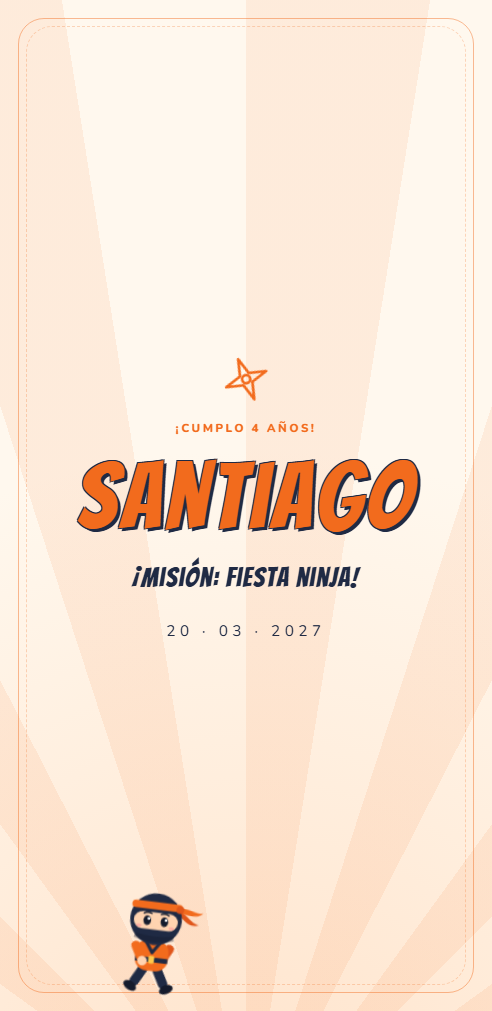
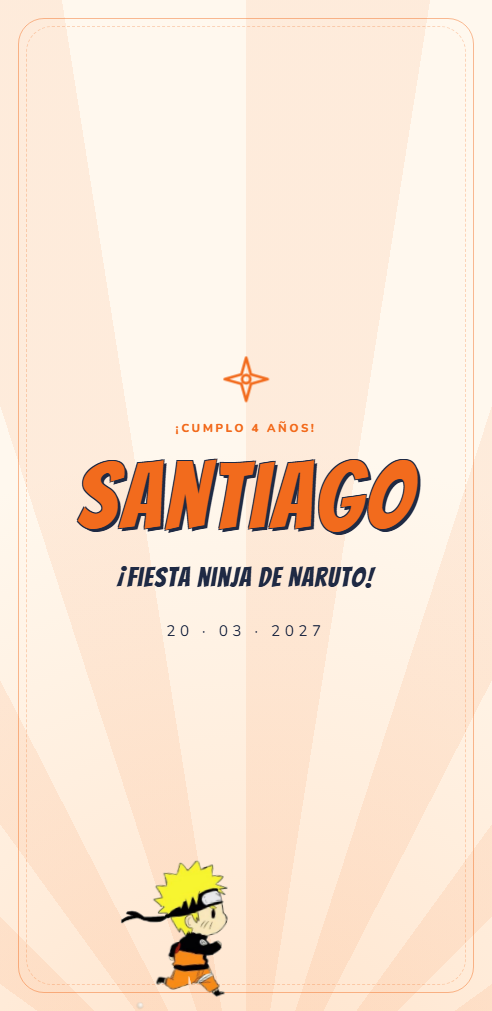
Catálogo: la tarjeta de fiestas infantiles ahora es "Fiesta Naruto"

Changed region(s): [[0.2439, 0.8279, 0.4573, 1.0], [0.2439, 0.5519, 0.7622, 0.5826], [0.4573, 0.3373, 0.5488, 0.3986]]

diff --git a/sitio/disenos/ninja/datos.js b/sitio/disenos/ninja/datos.js
@@ -3,15 +3,15 @@
    Fiesta infantil temática con personajes animados.
    ===================================================================== */
 window.EVENTO = {
-  catalogo: { nombre: "Pequeño Ninja", detalle: "Infantil · Personajes animados" },
+  catalogo: { nombre: "Fiesta Naruto", detalle: "Infantil · Personajes animados" },
 
   tipo: "ninja",
   emblema: "shuriken",
 
   pretitulo: "¡Cumplo 4 años!",
   nombres: { principal: "Santiago" },
-  frase: "¡Misión: fiesta ninja!",
-  tituloCorto: "la fiesta ninja de Santiago",
+  frase: "¡Fiesta ninja de Naruto!",
+  tituloCorto: "la fiesta de Naruto de Santiago",
 
   fecha: "2027-03-20T14:00:00-06:00",
   duracionHoras: 5,
@@ -56,13 +56,13 @@ window.EVENTO = {
   // (PNG con fondo transparente, GIF, SVG o animación Lottie .json).
   // animacion: cruzar | asomarse | saltar | flotar | ninja | lanzar
   personajes: [
-    { imagen: "personajes/ninja.svg", animacion: "cruzar", seccion: "portada", tamano: "96px" },
-    { imagen: "personajes/ninja.svg", animacion: "asomarse", seccion: "mensaje", lado: "derecha", posicion: "centro", tamano: "100px" },
+    { imagen: "personajes/naruto-corriendo.png", mira: "izquierda", piernas: 0.77, separa: 0.45, cinta: { desde: 0.56, arriba: 0.3, abajo: 0.46 }, animacion: "cruzar", seccion: "portada", tamano: "110px" },
+    { imagen: "personajes/kakashi.png", mira: "izquierda", animacion: "asomarse", asomo: 0.04, giro: 0, seccion: "mensaje", lado: "derecha", posicion: "abajo", tamano: "130px" },
     { imagen: "personajes/shuriken.svg", animacion: "lanzar", seccion: "cuenta", posicion: "arriba" },
-    { imagen: "personajes/ninja.svg", animacion: "ninja", seccion: "lugares", tamano: "100px" },
-    { imagen: "personajes/ninja.svg", animacion: "asomarse", seccion: "vestimenta", lado: "izquierda", posicion: "centro", tamano: "100px" },
-    { imagen: "personajes/ninja.svg", animacion: "saltar", seccion: "confirmar", lado: "derecha", tamano: "90px" },
-    { imagen: "personajes/ninja.svg", animacion: "cruzar", seccion: "despedida", lado: "derecha", tamano: "90px" },
+    { imagen: "personajes/naruto.png", animacion: "ninja", seccion: "lugares", tamano: "88px" },
+    { imagen: "personajes/kakashi.png", mira: "izquierda", animacion: "asomarse", asomo: 0.04, giro: 0, seccion: "vestimenta", lado: "izquierda", posicion: "abajo", tamano: "130px" },
+    { imagen: "personajes/naruto.png", animacion: "saltar", seccion: "confirmar", lado: "derecha", tamano: "80px" },
+    { imagen: "personajes/naruto-corriendo.png", mira: "izquierda", piernas: 0.77, separa: 0.45, cinta: { desde: 0.56, arriba: 0.3, abajo: 0.46 }, animacion: "cruzar", seccion: "despedida", lado: "derecha", tamano: "100px" },
   ],
 
   // evento: id del evento en el panel de invitados (localconnect.studio/panel). null = sin panel.

diff --git a/sitio/disenos/ninja/index.html b/sitio/disenos/ninja/index.html
@@ -10,10 +10,10 @@
 
   <!-- Lo que se ve al compartir el enlace por WhatsApp / Facebook.
        WhatsApp NO lee datos.js, por eso estos textos se escriben aquí. -->
-  <title>¡Santiago cumple 4! · Fiesta Ninja</title>
-  <meta name="description" content="¡Misión ninja! Santiago cumple 4 años el 20 de marzo. Toca para ver los detalles y confirmar.">
-  <meta property="og:title" content="¡Santiago cumple 4! · Fiesta Ninja">
-  <meta property="og:description" content="¡Misión ninja! Santiago cumple 4 años el 20 de marzo. Toca para ver los detalles y confirmar.">
+  <title>¡Santiago cumple 4! · Fiesta de Naruto</title>
+  <meta name="description" content="¡Fiesta de Naruto! Santiago cumple 4 años el 20 de marzo. Toca para ver los detalles y confirmar.">
+  <meta property="og:title" content="¡Santiago cumple 4! · Fiesta de Naruto">
+  <meta property="og:description" content="¡Fiesta de Naruto! Santiago cumple 4 años el 20 de marzo. Toca para ver los detalles y confirmar.">
   <meta property="og:type" content="website">
   <meta property="og:image" content="https://localconnect.studio/assets/disenos/ninja.png">
   <meta name="theme-color" content="#fff8ee">

diff --git a/sitio/index.html b/sitio/index.html
@@ -121,12 +121,12 @@
           </div>
         </article>
         <article class="diseno">
-          <a class="diseno__vista" href="disenos/ninja/"><div class="telefono"><img src="assets/disenos/ninja.png" alt="Invitación infantil con un ninja animado" loading="lazy"></div></a>
+          <a class="diseno__vista" href="disenos/ninja/"><div class="telefono"><img src="assets/disenos/ninja.png" alt="Invitación infantil con Naruto animado" loading="lazy"></div></a>
           <h3>Fiestas infantiles</h3>
-          <p>Diseño Pequeño Ninja · con personajes animados</p>
+          <p>Diseño Fiesta Naruto · con personajes animados</p>
           <div class="diseno__acciones">
             <a class="boton boton--chico" href="disenos/ninja/">Ver invitación</a>
-            <a class="enlace" data-wa='¡Hola LocalConnect! Me interesa el diseño "Pequeño Ninja" para una fiesta infantil.' href="#contacto">Lo quiero</a>
+            <a class="enlace" data-wa='¡Hola LocalConnect! Me interesa el diseño "Fiesta Naruto" para una fiesta infantil.' href="#contacto">Lo quiero</a>
           </div>
         </article>
         <article class="diseno diseno--medida">
